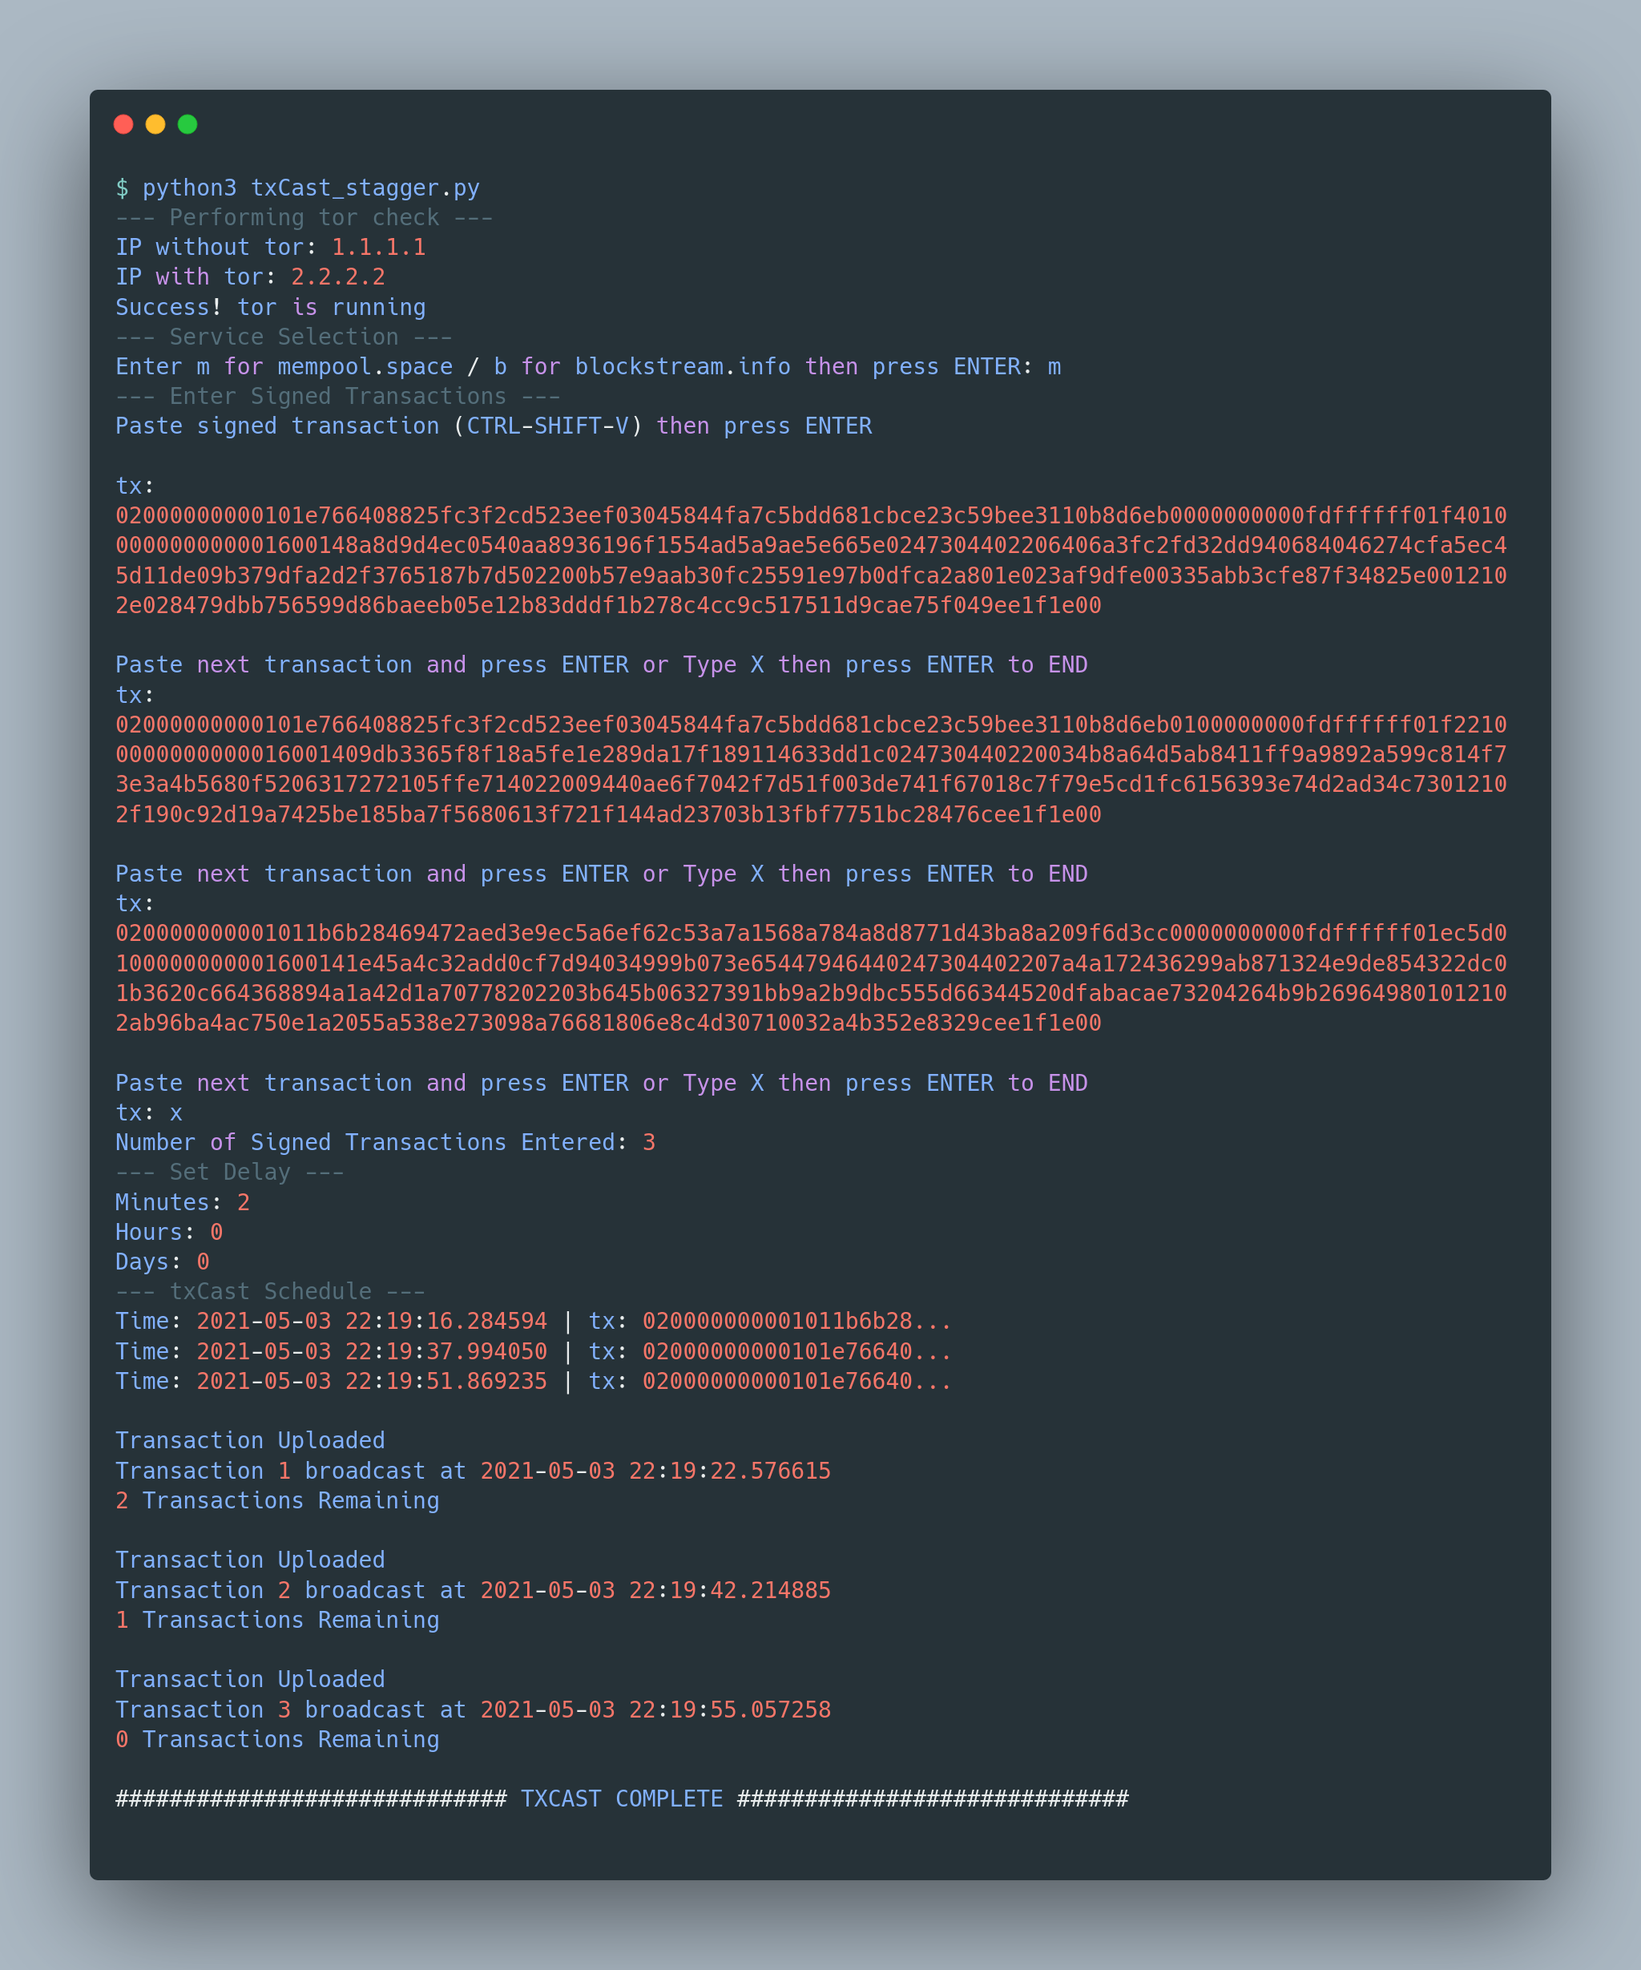
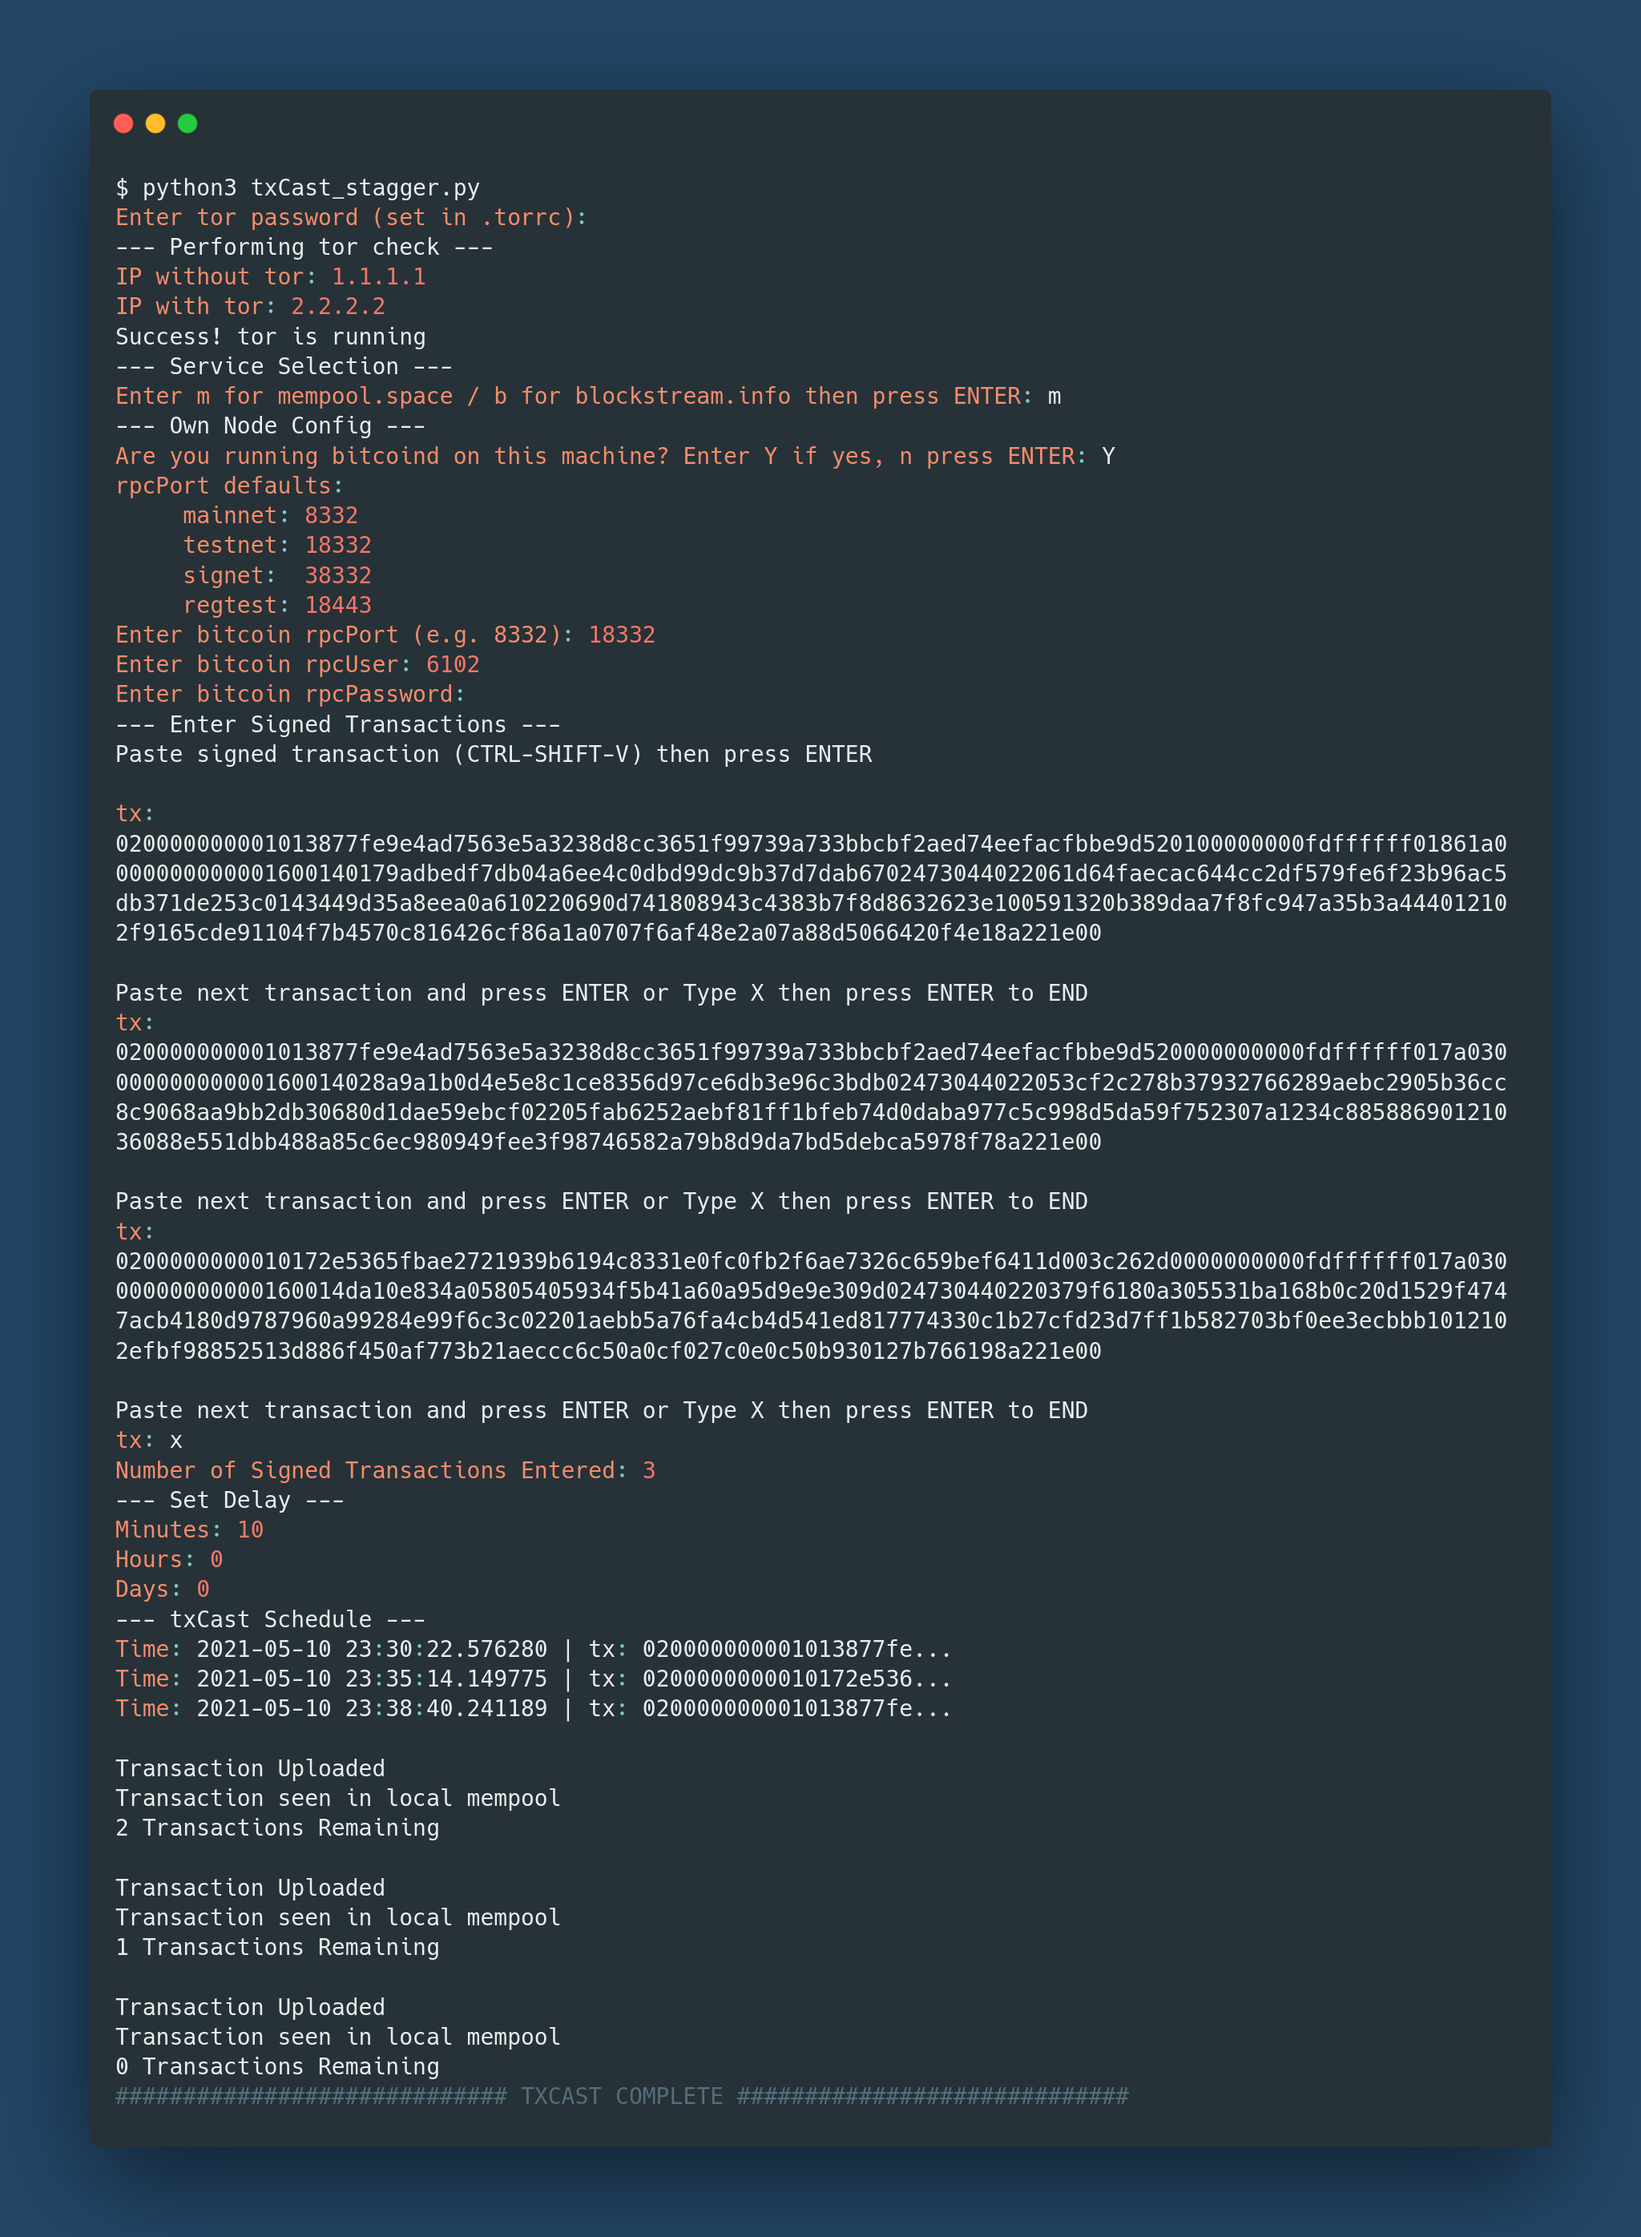
Add discreet rpcPassword & torPassword entry, printout of failed transactions and mempool (not conf.) check

Changed region(s): [[0.0, 0.0, 1.0, 1.0], [0.4688, 0.8039, 0.5, 0.8348]]

diff --git a/txCast_stagger.py b/txCast_stagger.py
@@ -4,6 +4,7 @@ import time
 import requests
 import secrets
 import json
+import getpass
 from datetime import datetime
 from datetime import timedelta
 from stem import Signal
@@ -45,7 +46,7 @@ class RPCHost(object):
 
 def main():
     global tor_password
-    tor_password = input("Enter tor password (set in .torrc): ")
+    tor_password = getpass.getpass(prompt="Enter tor password (set in .torrc): ")
     print("--- Performing tor check ---")
     renew_tor_ip()
     ip_tor = get_ip_tor()
@@ -58,8 +59,7 @@ def main():
         set_node()
         build_lists()
         process_all()
-        print("")
-        print("############################# TXCAST COMPLETE #############################")
+        conclude()
     else:
         print("")
         print("Aborted, tor Not Connected")
@@ -125,7 +125,7 @@ def set_node():
         print("     regtest: 18443")
         rpcPort = input("Enter bitcoin rpcPort (e.g. 8332): ")
         rpcUser = input("Enter bitcoin rpcUser: ")
-        rpcPassword = input("Enter bitcoin rpcPassword: ")
+        rpcPassword = getpass.getpass(prompt="Enter bitcoin rpcPassword: ")
         # Access RPC local server
         serverURL = 'http://' + rpcUser + ':' + rpcPassword + '@localhost:' + str(rpcPort)
         
@@ -251,10 +251,19 @@ def push_tx(payload):
 
 def check_local_mempool(txid):
     try:
-        host.call('getrawtransaction', txid)
+        # host.call('getrawtransaction', txid)
+        host.call('getmempoolentry', txid)
         inMempool = True
     except:
         inMempool = False
     return inMempool
+
+def conclude():
+    print("############################# TXCAST COMPLETE #############################")
+    if failed_tx_list:
+        print("")
+        print("The Following transactions were broadcast but were not seen in local mempool...")
+        for tx in failed_tx_list:
+            print(tx)
 
 main()
